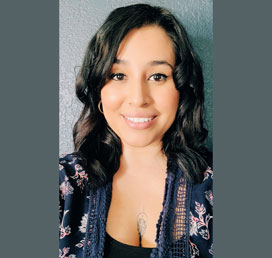
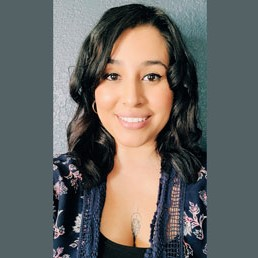
popup and staff change

diff --git a/index.html b/index.html
@@ -124,12 +124,15 @@
             </div>
             <div class="modal-body text-center">
                 <p>
-                    The small businesses of Hutto are facing some challenging times and we feel so fortunate to be in one of the most loving communities out there. We cannot thank you enough for your continued support through this very uncertain time, we are so honored to be a part of the Hutto community!
+                    <img src="./img/hand.png" alt="Waving emoji"/><br/>Hey hard working people of Hutto!
                 </p>
                 <p>
-                    <span style="font-weight:bold;">Our therapists are temporarily working Wednesday - Saturday.</span>
+                    <img src="./img/pray.png" alt="Gracious emoji"/><br/>We are honored to be one of Hutto’s most trusted resources for therapeutic relief, and we have an amazing NEW THERAPIST, who would love to take you in as a regular client! Book your first session with Jeanette and get AROMATHERAPY and STEAM TOWELS added into your massage for FREE!
                 </p>
-                <!--<p class="text-center"><a href="https://www.vagaro.com/idealmassage/gift-certificates">Purchase Yours Today!</a></p>-->
+                <p>
+                    Jeanette is bookable Wednesday - Sunday.    
+                </p>
+                <p class="text-center"><a href="https://www.vagaro.com/idealmassage/book-now">Book Your Appointment Today!</a></p>
             </div>
         </div>
     </div>

diff --git a/staff.html b/staff.html
@@ -125,7 +125,7 @@
 
             <div class="pic-row text-center">
                 <div><img class="jeanette-image rounded active" src="./img/jeanette.jpg" width="160px" alt="Jeanette"></div>
-                <div><img class="chelsey-image rounded" src="./img/chelsea.jpg" width="160px" alt="Chelsey photo"></div>
+                <div><img class="chelsey-image rounded" src="./img/girl.jpg" width="160px" alt="Chelsey photo"></div>
             </div>
 
             <div class="text-row">
